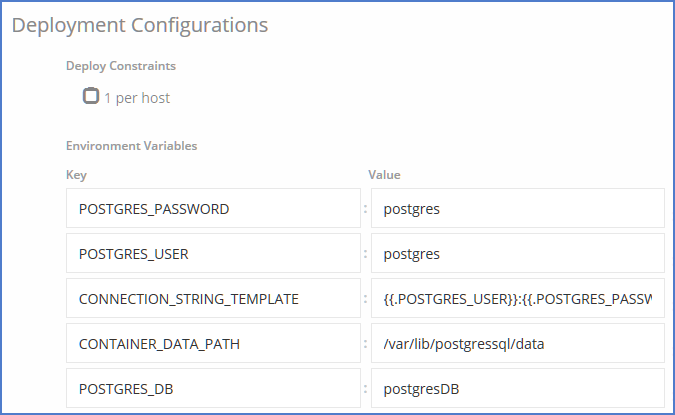
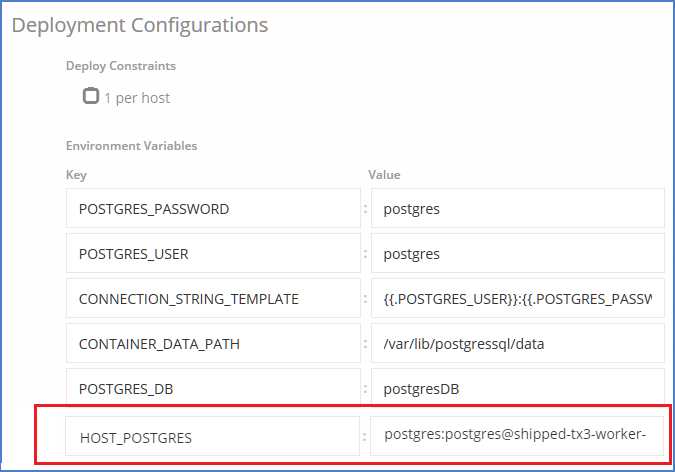
Update Single value Env variable in multi tier.

diff --git a/labs/shipped-multi-tier/3.md b/labs/shipped-multi-tier/3.md
@@ -19,7 +19,7 @@ You are now ready to deploy *Postgres*, *vote-api*, and *vote-ui* services. The 
 
 1. Select **Postgres** and the environment (Test), click **Deploy Build**. 
 
-1. Copy the environment variables of Postgress, which you need to set for vote-api and vote-ui. 
+1. As we need connection string to connect our API to Postgres DB, So we need to copy the environment variable name "HOST_POSTGRES" (naming convention "HOST_"$servicename) of Postgress, which you need to set for vote-api and vote-ui. 
 
     2. Click **Settings**. 
     3. Scroll down to the **Deployment Configurations** section. 
@@ -53,25 +53,10 @@ You are now ready to deploy *Postgres*, *vote-api*, and *vote-ui* services. The 
 <td>Value</td>
 </tr>
 <tr>
-<td>SEED_PORT</td>
-<td>4001</td>
+<td>CONNECTION_STRING</td>
+<td>postgres:postgres@shipped-tx3-worker-004:4005/postgresDB</td>
 </tr>
-<tr>
-<td>HOST_VOTE_API</td>
-<td>http://test--multitierapp--vote-api--254b61.gce.shipped-cisco.com</td>
-</tr>
-<tr>
-<td>HOST_VOTE_UI</td>
-<td>http://test--multitierapp--vote-ui--247fa6.gce.shipped-cisco.com</td>
-</tr>
-<tr>
-<td>SEED_HOST</td>
-<td>test--multitierapp--postgres--d1329f-0.service.consul</td>
-</tr>
-<tr>
-<td>HOST_POSTGRES</td>
-<td>http://test--multitierapp--postgres--d1329f.gce.shipped-cisco.com</td>
-</tr>
+
 </table>
 
 1. Click **Save**. 
